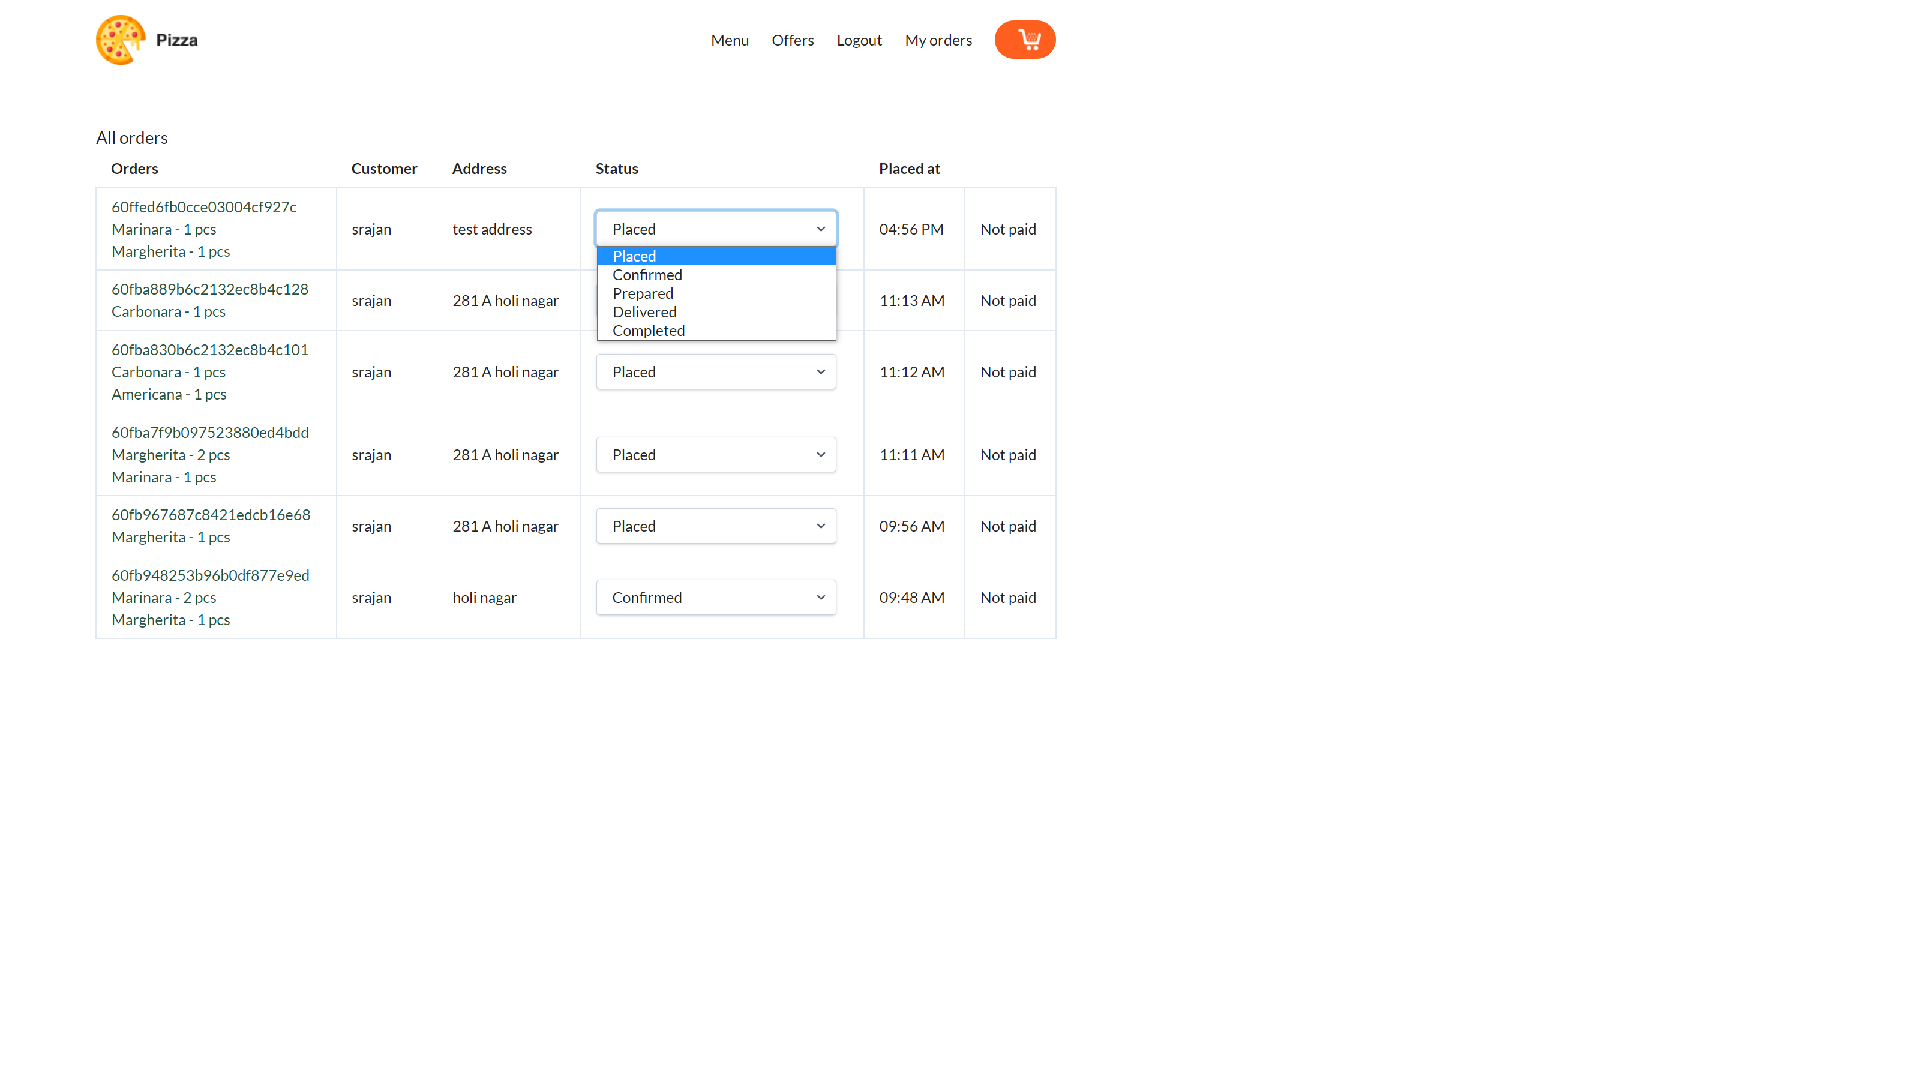
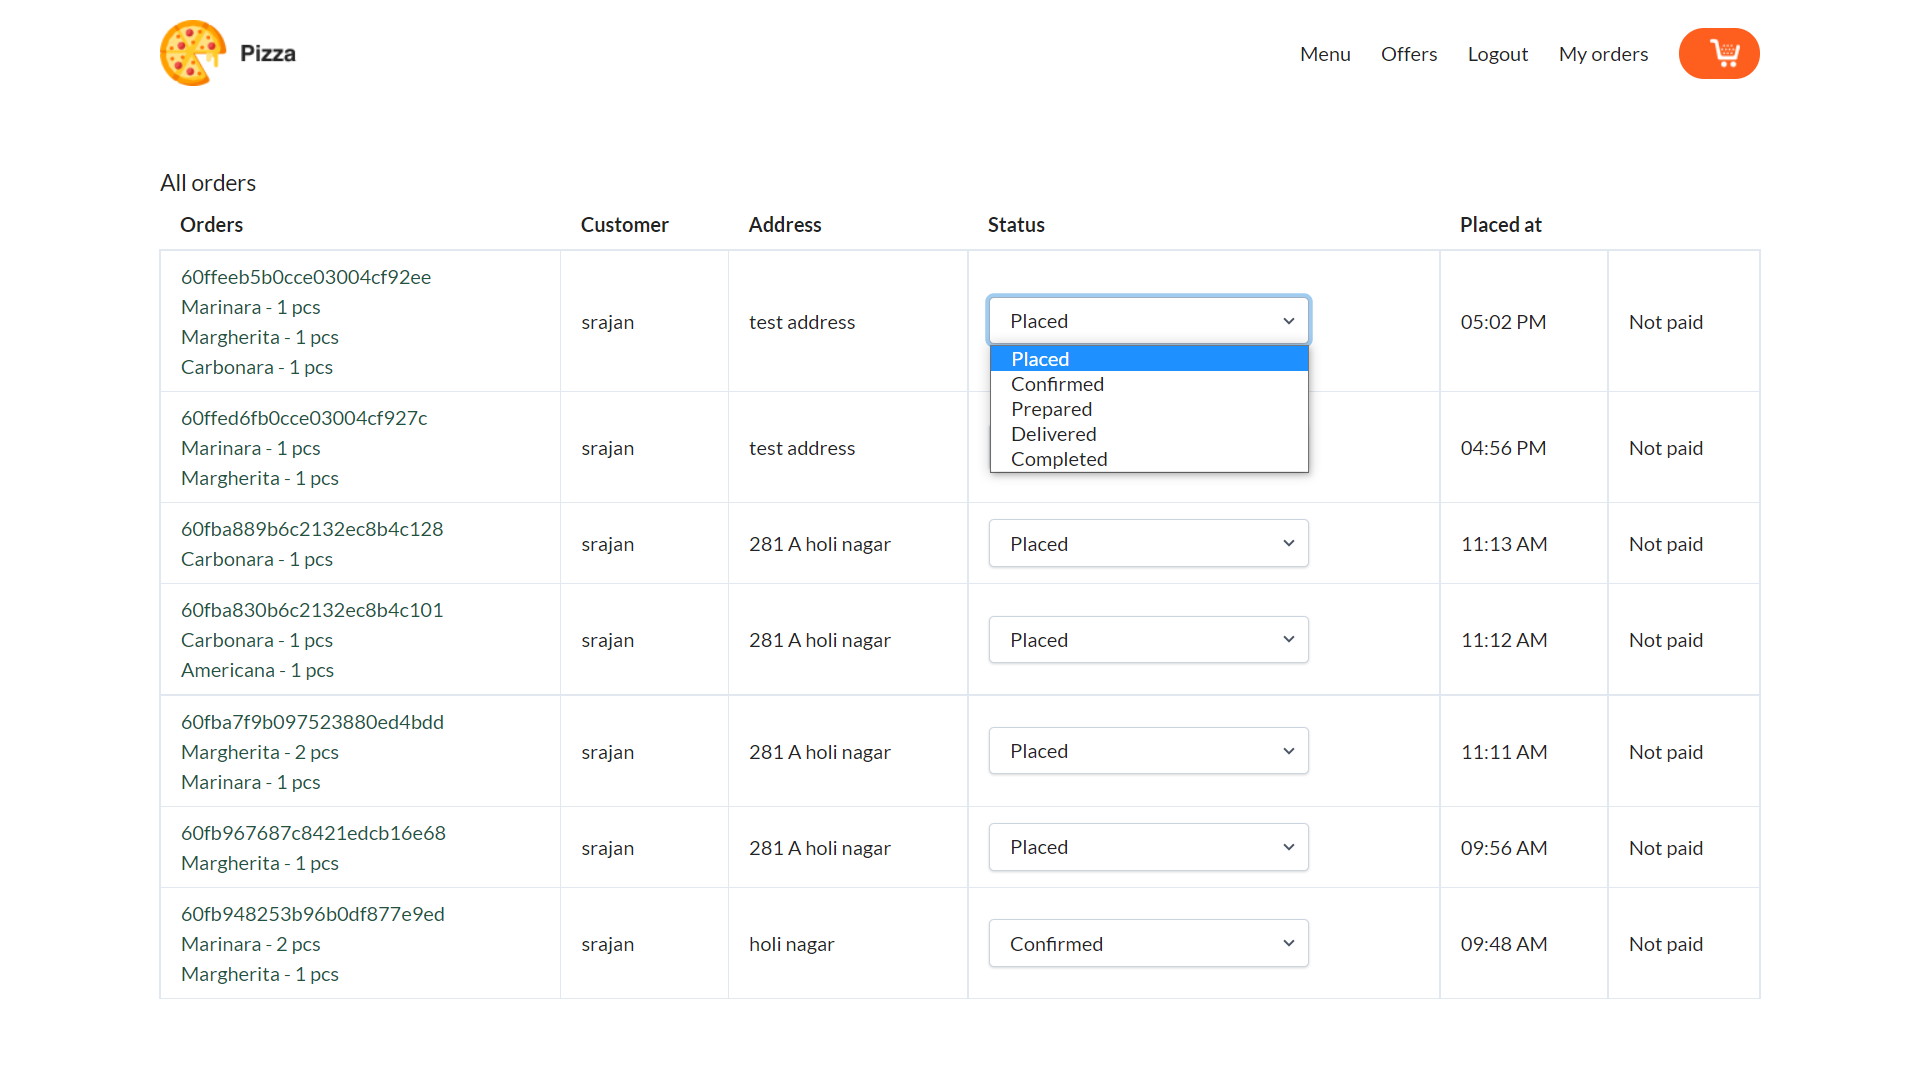
updates readme file

diff --git a/README.md b/README.md
@@ -19,3 +19,7 @@
 ## Tracking the order
 ### Each order od is a hyperlink which can be used to track individual orders.
  ![Track Order](./readmeImages/status.png)
+
+## Admin side controls
+### Admin has the authority to view all the orders and update their status.
+ ![admin dashboard](./readmeImages/admin.png)
